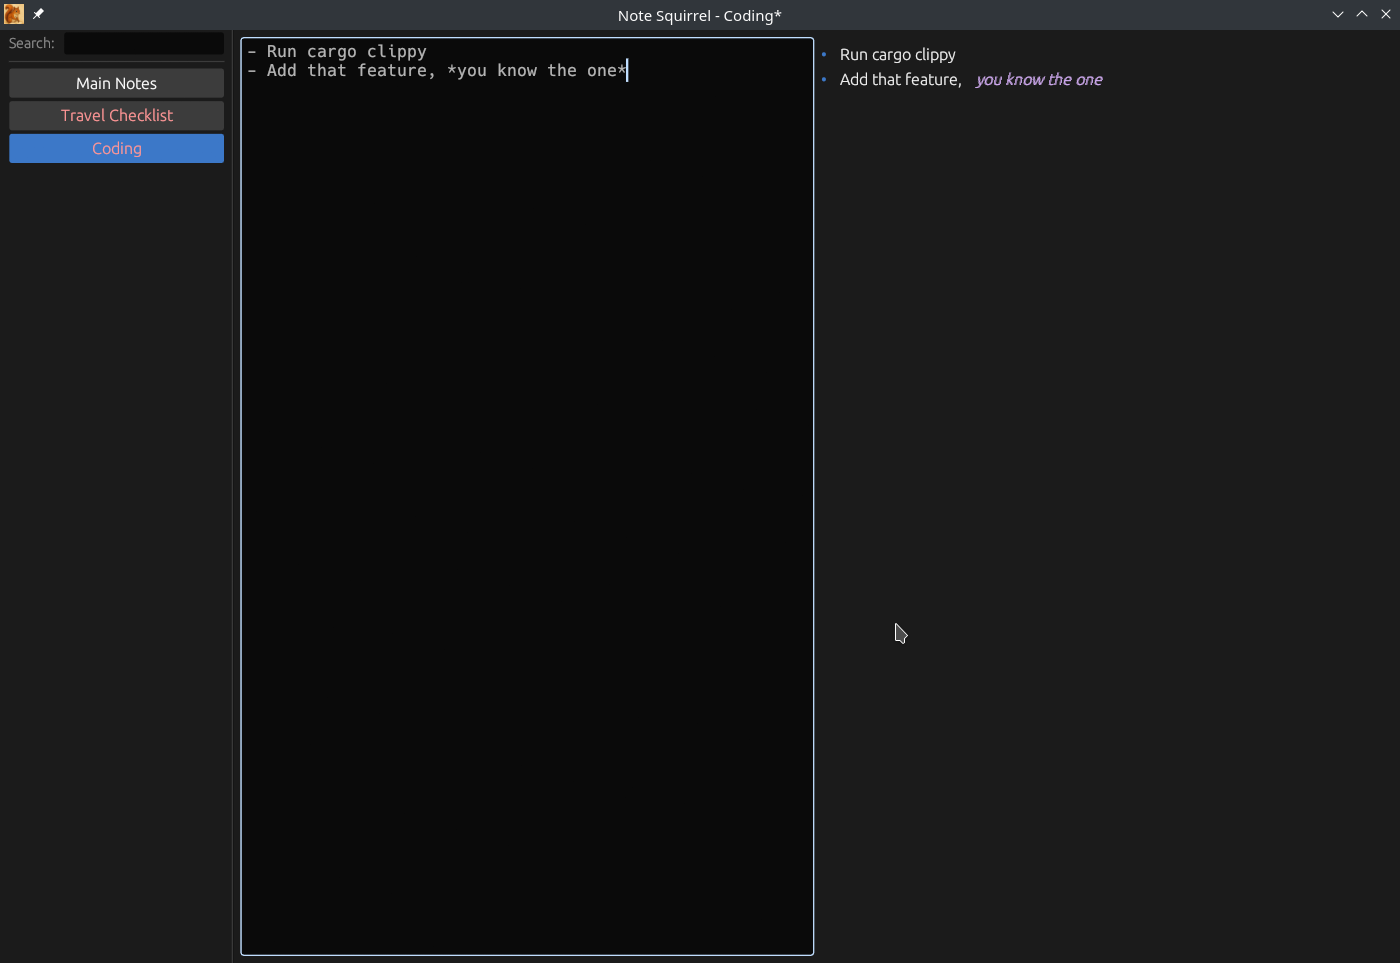
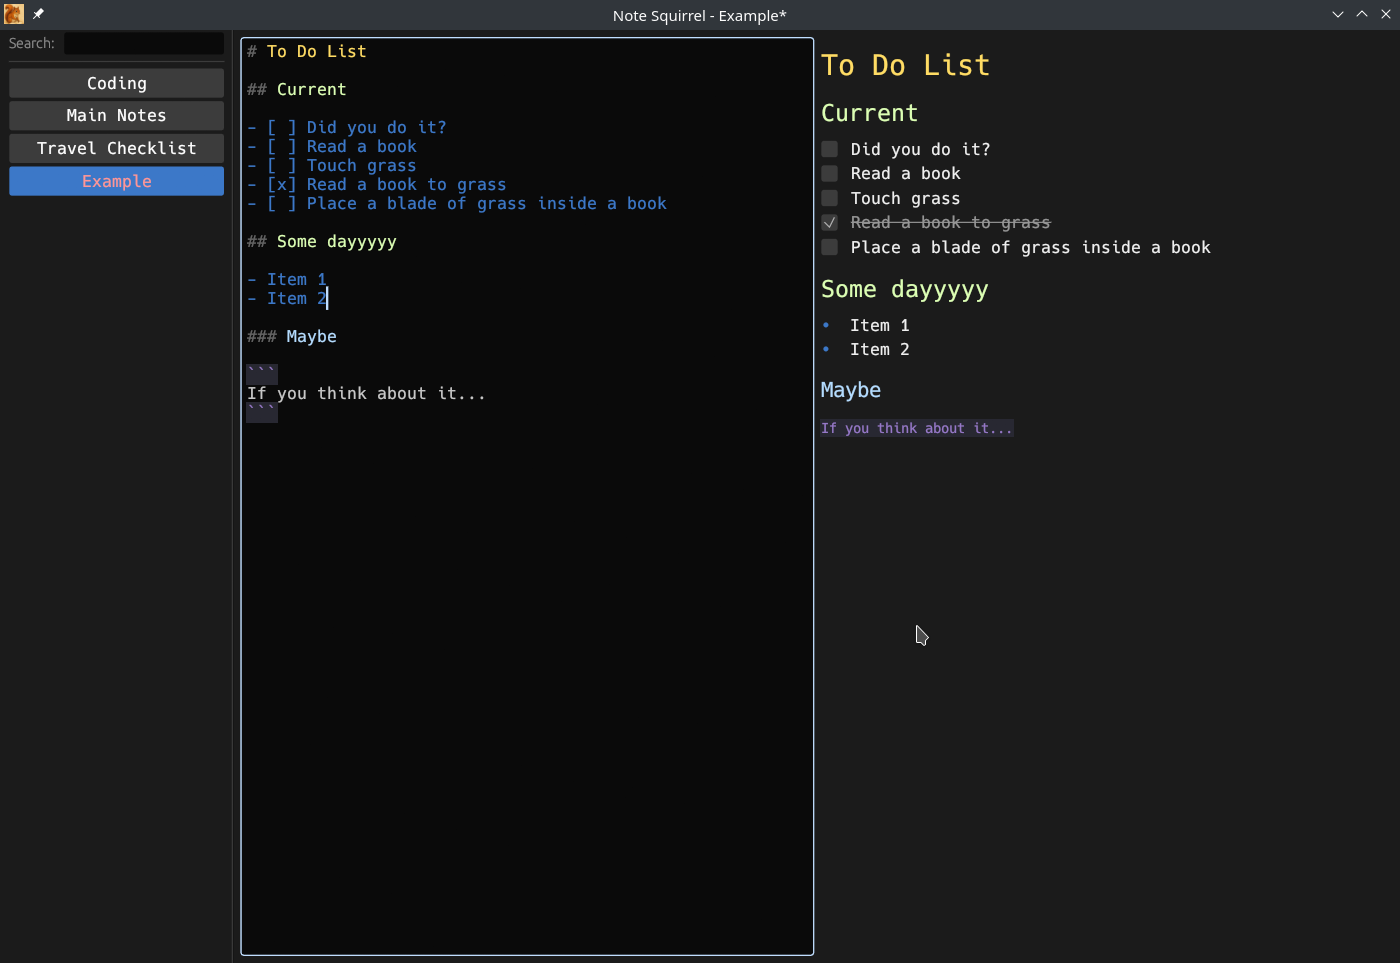
Fixing syntax highlighting, updating screenshot

diff --git a/src/editor.rs b/src/editor.rs
@@ -1,4 +1,5 @@
 use eframe::egui;
+use egui::{Color32, ScrollArea};
 use arboard::Clipboard;
 
 use crate::notes_list::NotesList;
@@ -61,20 +62,152 @@ impl Editor {
     pub fn render(&mut self, ui: &mut egui::Ui) -> bool {
         let inner = ui.available_size();
         let mut changed = false;
+
         ui.allocate_ui_with_layout(inner, egui::Layout::top_down(egui::Align::LEFT), |ui| {
-            egui::ScrollArea::vertical()
+            ScrollArea::vertical()
                 .auto_shrink([false, false])
                 .id_salt("editor_scroll")
                 .show(ui, |ui| {
-                    changed = ui.add_sized(
-                        ui.available_size(),
-                        egui::TextEdit::multiline(&mut self.markdown_text)
-                            .font(self.config.get_editor_font_id(self.config.editor_font_size))
-                            .desired_width(f32::INFINITY),
-                    )
-                    .changed();
+                    changed = self.render_syntax_highlighted_editor(ui);
                 });
         });
+
         changed
     }
+
+    fn render_syntax_highlighted_editor(&mut self, ui: &mut egui::Ui) -> bool {
+        use egui::TextEdit;
+
+        let font_id = self.config.get_editor_font_id(self.config.editor_font_size);
+        let editor_font_size = self.config.editor_font_size;
+
+        let mut layouter = |ui: &egui::Ui, string: &str, _wrap_width: f32| {
+            let mut job = egui::text::LayoutJob::default();
+
+            for line in string.lines() {
+                Self::highlight_markdown_line_static(line, &mut job, font_id.clone(), editor_font_size);
+                job.append("\n", 0.0, egui::TextFormat {
+                    font_id: font_id.clone(),
+                    color: Color32::from_rgb(200, 200, 200),
+                    ..Default::default()
+                });
+            }
+
+            ui.fonts(|f| f.layout_job(job))
+        };
+
+        ui.add_sized(
+            ui.available_size(),
+            TextEdit::multiline(&mut self.markdown_text)
+                .font(font_id.clone())
+                .desired_width(f32::INFINITY)
+                .layouter(&mut layouter),
+        ).changed()
+    }
+
+    fn highlight_markdown_line_static(line: &str, job: &mut egui::text::LayoutJob, font_id: egui::FontId, font_size: f32) {
+        let trimmed = line.trim_start();
+
+        // Handle headers
+        if trimmed.starts_with("######") {
+            Self::add_header_text_static(line, 6, Color32::from_rgb(255, 255, 180), 14.0, job, font_id.clone(), font_size);
+        } else if trimmed.starts_with("#####") {
+            Self::add_header_text_static(line, 5, Color32::from_rgb(220, 180, 255), 16.0, job, font_id.clone(), font_size);
+        } else if trimmed.starts_with("####") {
+            Self::add_header_text_static(line, 4, Color32::from_rgb(255, 180, 220), 18.0, job, font_id.clone(), font_size);
+        } else if trimmed.starts_with("###") {
+            Self::add_header_text_static(line, 3, Color32::from_rgb(180, 220, 255), 20.0, job, font_id.clone(), font_size);
+        } else if trimmed.starts_with("##") {
+            Self::add_header_text_static(line, 2, Color32::from_rgb(220, 255, 180), 24.0, job, font_id.clone(), font_size);
+        } else if trimmed.starts_with("#") {
+            Self::add_header_text_static(line, 1, Color32::from_rgb(255, 220, 100), 28.0, job, font_id.clone(), font_size);
+        }
+        // Handle code blocks
+        else if trimmed.starts_with("```") {
+            job.append(line, 0.0, egui::TextFormat {
+                font_id: egui::FontId::monospace(font_size),
+                color: Color32::from_rgb(150, 120, 200),
+                background: Color32::from_rgb(40, 40, 50),
+                ..Default::default()
+            });
+        }
+        // Handle quotes
+        else if trimmed.starts_with(">") {
+            job.append(line, 0.0, egui::TextFormat {
+                font_id: font_id.clone(),
+                color: Color32::from_rgb(160, 160, 160),
+                italics: true,
+                ..Default::default()
+            });
+        }
+        // Handle lists - simple version
+        else if trimmed.starts_with("- ") || trimmed.starts_with("* ") || trimmed.starts_with("+ ") {
+            job.append(line, 0.0, egui::TextFormat {
+                font_id,
+                color: Color32::from_rgb(60, 120, 200),
+                ..Default::default()
+            });
+        }
+        // Handle numbered lists
+        else if trimmed.chars().next().map_or(false, |c| c.is_ascii_digit()) && trimmed.contains(". ") {
+            job.append(line, 0.0, egui::TextFormat {
+                font_id,
+                color: Color32::from_rgb(60, 120, 200),
+                ..Default::default()
+            });
+        }
+        // Handle regular text
+        else {
+            job.append(line, 0.0, egui::TextFormat {
+                font_id,
+                color: Color32::from_rgb(200, 200, 200),
+                ..Default::default()
+            });
+        }
+    }
+
+    fn add_header_text_static(line: &str, level: usize, color: Color32, _size: f32, job: &mut egui::text::LayoutJob, font_id: egui::FontId, _font_size: f32) {
+        let prefix = "#".repeat(level);
+        let prefix_with_space = format!("{} ", prefix);
+
+        if let Some(content_start) = line.find(&prefix_with_space) {
+            // Add text before header
+            if content_start > 0 {
+                job.append(&line[..content_start], 0.0, egui::TextFormat {
+                    font_id: font_id.clone(),
+                    color: Color32::from_rgb(200, 200, 200),
+                    ..Default::default()
+                });
+            }
+
+            // Add header prefix with distinct color
+            job.append(&prefix, 0.0, egui::TextFormat {
+                font_id: font_id.clone(),
+                color: Color32::from_rgb(100, 100, 100),
+                ..Default::default()
+            });
+
+            // Add space
+            job.append(" ", 0.0, egui::TextFormat {
+                font_id: font_id.clone(),
+                color: Color32::from_rgb(200, 200, 200),
+                ..Default::default()
+            });
+
+            // Add header content
+            let content = &line[content_start + prefix_with_space.len()..];
+            job.append(content, 0.0, egui::TextFormat {
+                font_id: font_id.clone(),
+                color,
+                ..Default::default()
+            });
+        } else {
+            job.append(line, 0.0, egui::TextFormat {
+                font_id,
+                color: Color32::from_rgb(200, 200, 200),
+                ..Default::default()
+            });
+        }
+    }
+
 }
